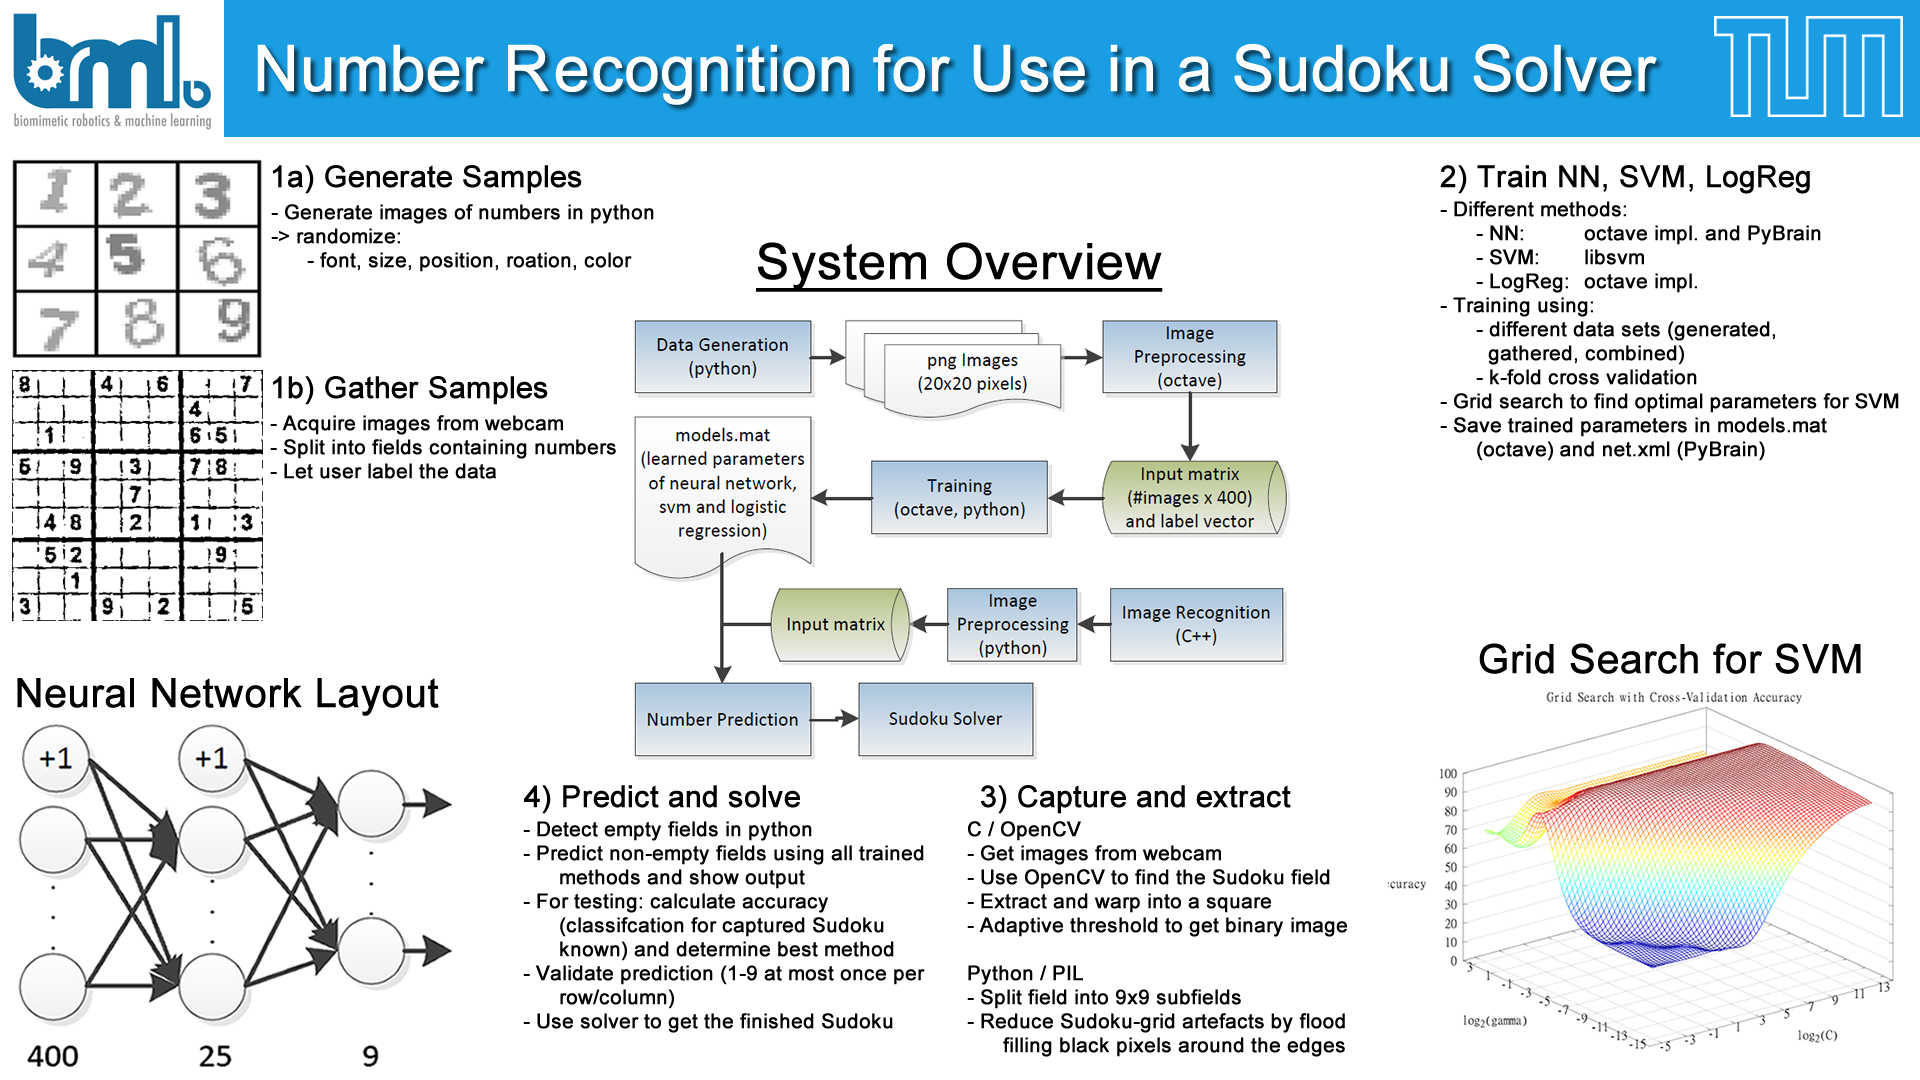
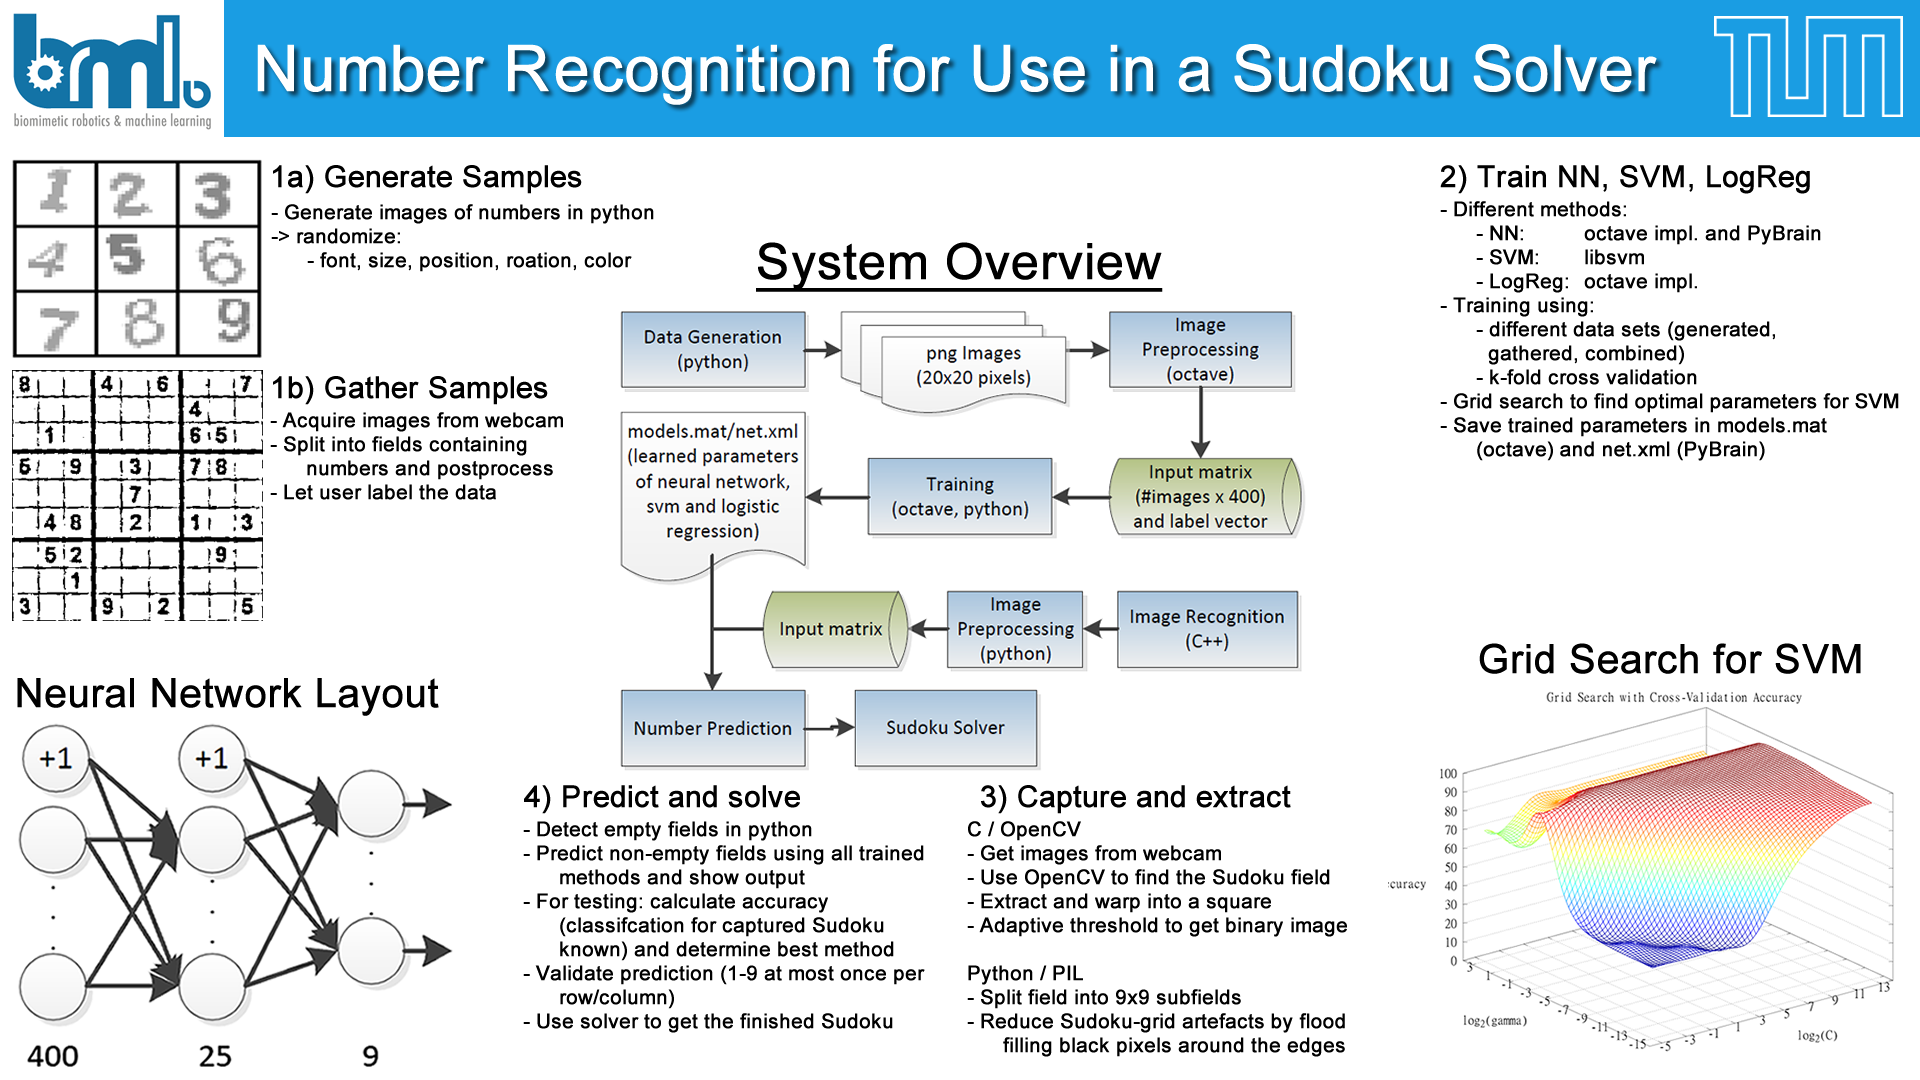
fix

Changed region(s): [[0.125, 0.275, 0.6875, 0.7333]]

diff --git a/doc/icml2010stylefiles/paper.tex b/doc/icml2010stylefiles/paper.tex
@@ -72,17 +72,17 @@
 ]
 
 \begin{abstract}
-The goal of this work is to implement number recognition for a Soduko solver.
-First we will describe the generation of synthetic data, in this case labelled images of numbers.
+The goal of this work is to implement number recognition for a Sudoku solver.
+First we will describe the generation of synthetic data, in this case labeled images of numbers.
 Then we compare different machine learning techniques for supervised learning using the generated data.
-Once the training is complete, images of real Sudokus are captured using a webcam and preprocessed to be predicted by the learned models. We evaluate the different approaches by analyzing their performance on different data sets.
+Once the training is complete, images of real Sudokus are captured using a webcam and preprocessed in order to be recognized by the learned models. We evaluate the different approaches by analyzing their performance on different data sets.
 \end{abstract}
 
 \section{Introduction}
 Number and letter recognition is key in many real-world applications. Digitalizing print media, automated sorting of letters, or recognition of signs in robotics or driver assistance systems require well performing algorithms for character recognition. In the following we analyze the performance of different techniques for number recognition, namely Neural Networks (NN), Support Vector Machines (SVM) and Logistic Regression (LR), by using them in an automated Sudoku solver.
 
 \section{Overview}
-Figure \ref{fig:overview} shows the basic data flow and the participating data manipulators. First of all we generate data by sampling position, rotation, size and color of a number and place it based on these values on a white 20x20 pixel image. Examples of 9 such generated images are shown in Figure \ref{fig:generated_numbers}.The corresponding labels are defined by the name of the folder the images are stored in.
+Figure \ref{fig:overview} shows the basic data flow and the participating data manipulators. First of all we generate data by sampling position, rotation, size and color of a number and place it based on these values on a white 20x20 pixel image. Examples of 9 such generated images are shown in Figure \ref{fig:generated_numbers}. The corresponding labels are defined by the name of the folder the images are stored in.
 \begin{figure}[ht]
 	\centerline{\includegraphics[scale=0.25]{../examples}}
 	\caption{Examples of generated numbers}
